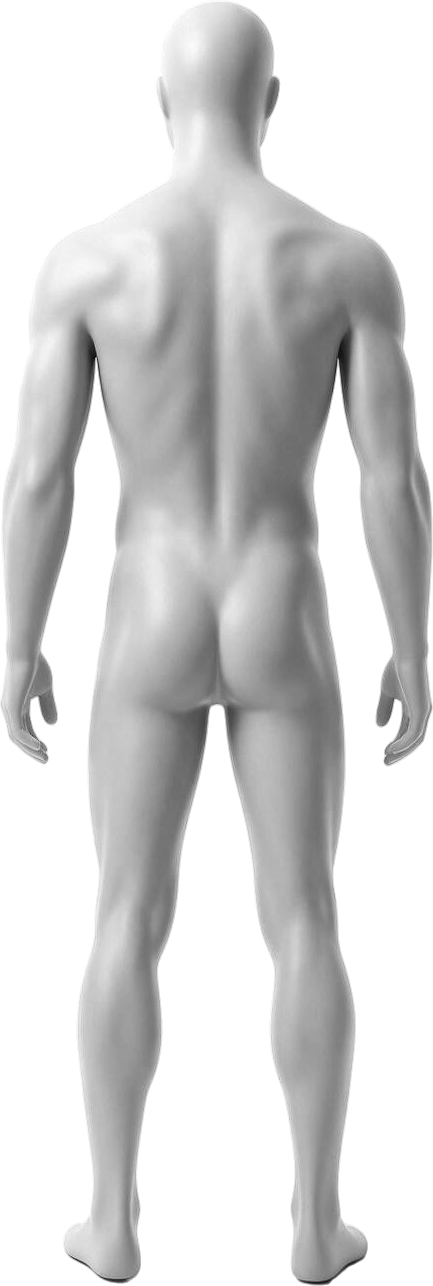
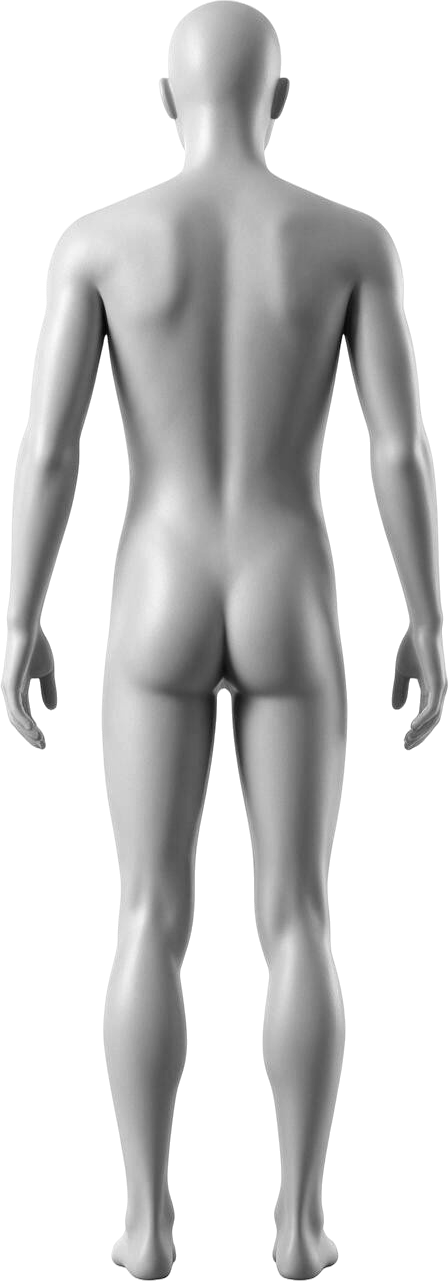
Manequim posado por IA para as peças (em vez de reposar o PSD)
Inverte a abordagem do encaixe: em vez de pedir ao designer para
reposar as peças sobre o manequim, o manequim é gerado para as peças.
A montagem exata do visualizador (camisola + calção + meiões, na
geometria dos slots) serviu de referência de pose ao gerador; o
resultado é recortado, neutralizado e posto por trás.

Braços dentro das mangas, pescoço na gola, coxas no calção e canelas
nos meiões, sem tocar em nenhum asset do designer. Meiões alargados
para os gémeos deste manequim (o anterior tinha pernas mais finas).

diff --git a/src/components/kit/KitViewer.tsx b/src/components/kit/KitViewer.tsx
@@ -61,9 +61,9 @@ function ConjuntoLado({ lado }: { lado: LadoKit }) {
         {/* as meias assentam nas canelas do jogador (tornozelos a ±20px do
             centro), por isso os slots sobrepõem-se — o desenho dentro deles
             é estreito e não chega a tocar-se */}
-        <div className="z-10 -mt-[10px] flex -space-x-[71px]">
-          <PecaSlot peca="meiao" lado={lado} className="h-[252px] w-[121px] -scale-x-100" />
-          <PecaSlot peca="meiao" lado={lado} className="h-[252px] w-[121px]" />
+        <div className="z-10 -mt-[14px] flex -space-x-[86px]">
+          <PecaSlot peca="meiao" lado={lado} className="h-[270px] w-[130px] -scale-x-100" />
+          <PecaSlot peca="meiao" lado={lado} className="h-[270px] w-[130px]" />
         </div>
       </div>
     </div>
